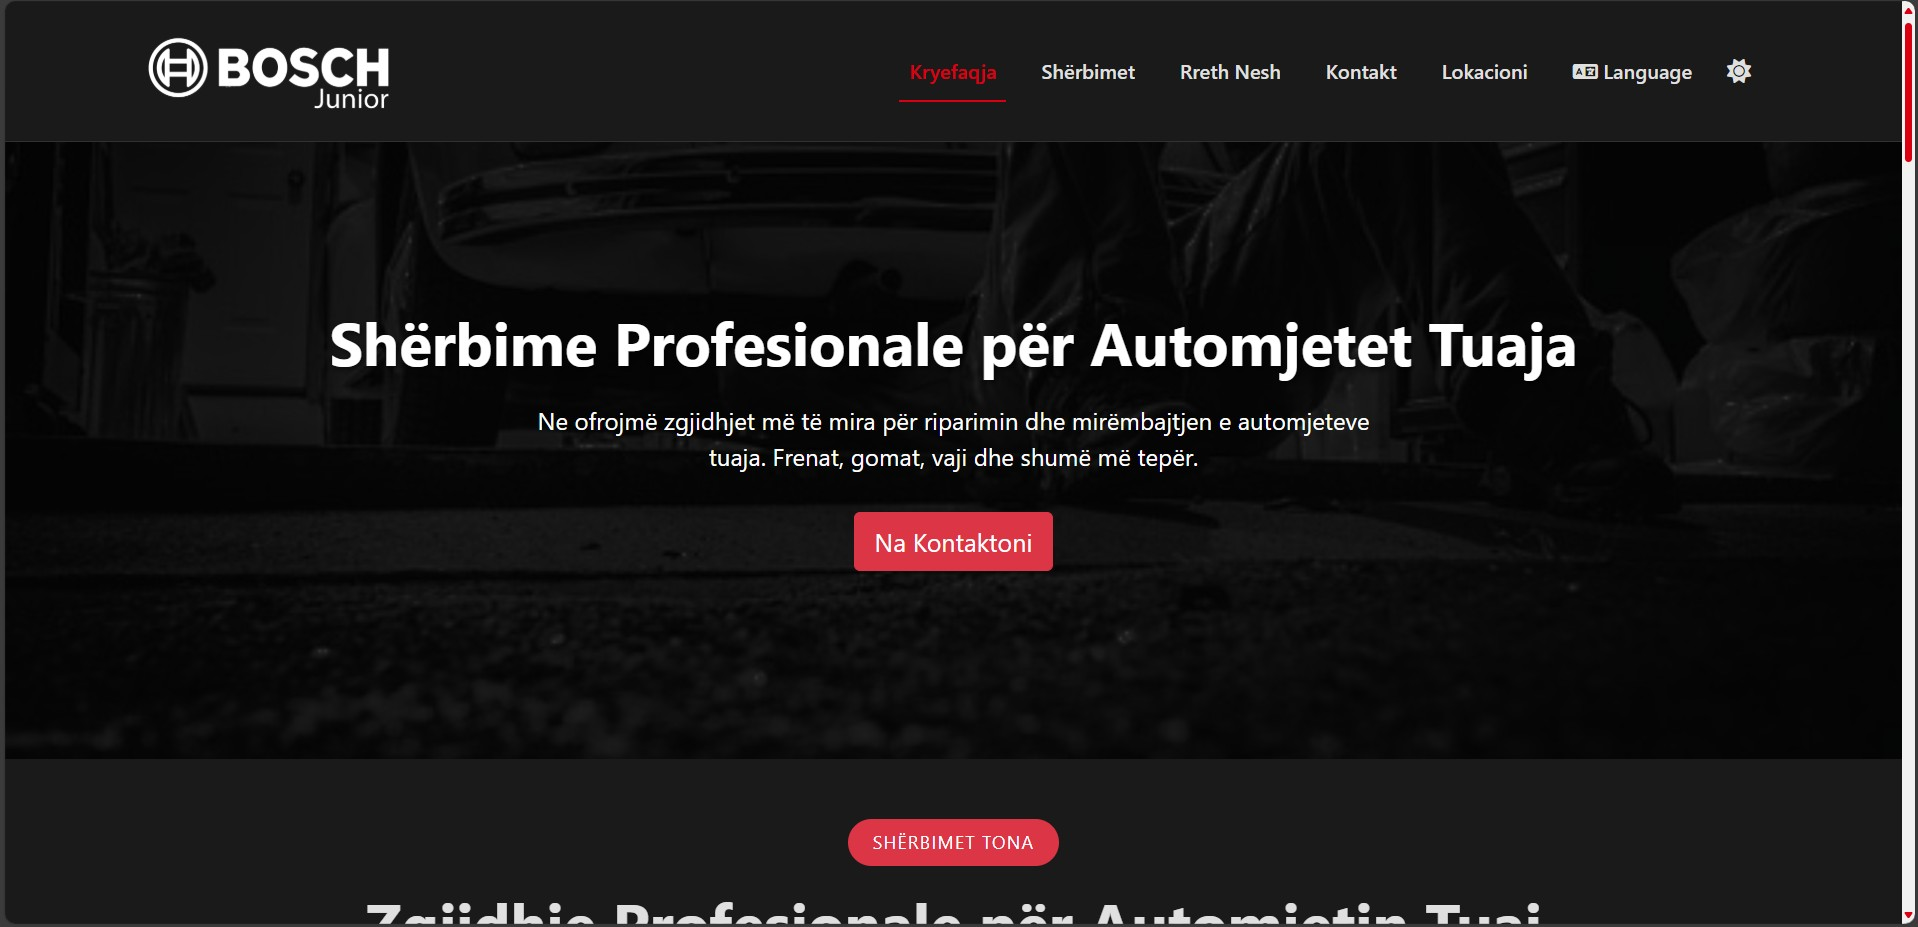
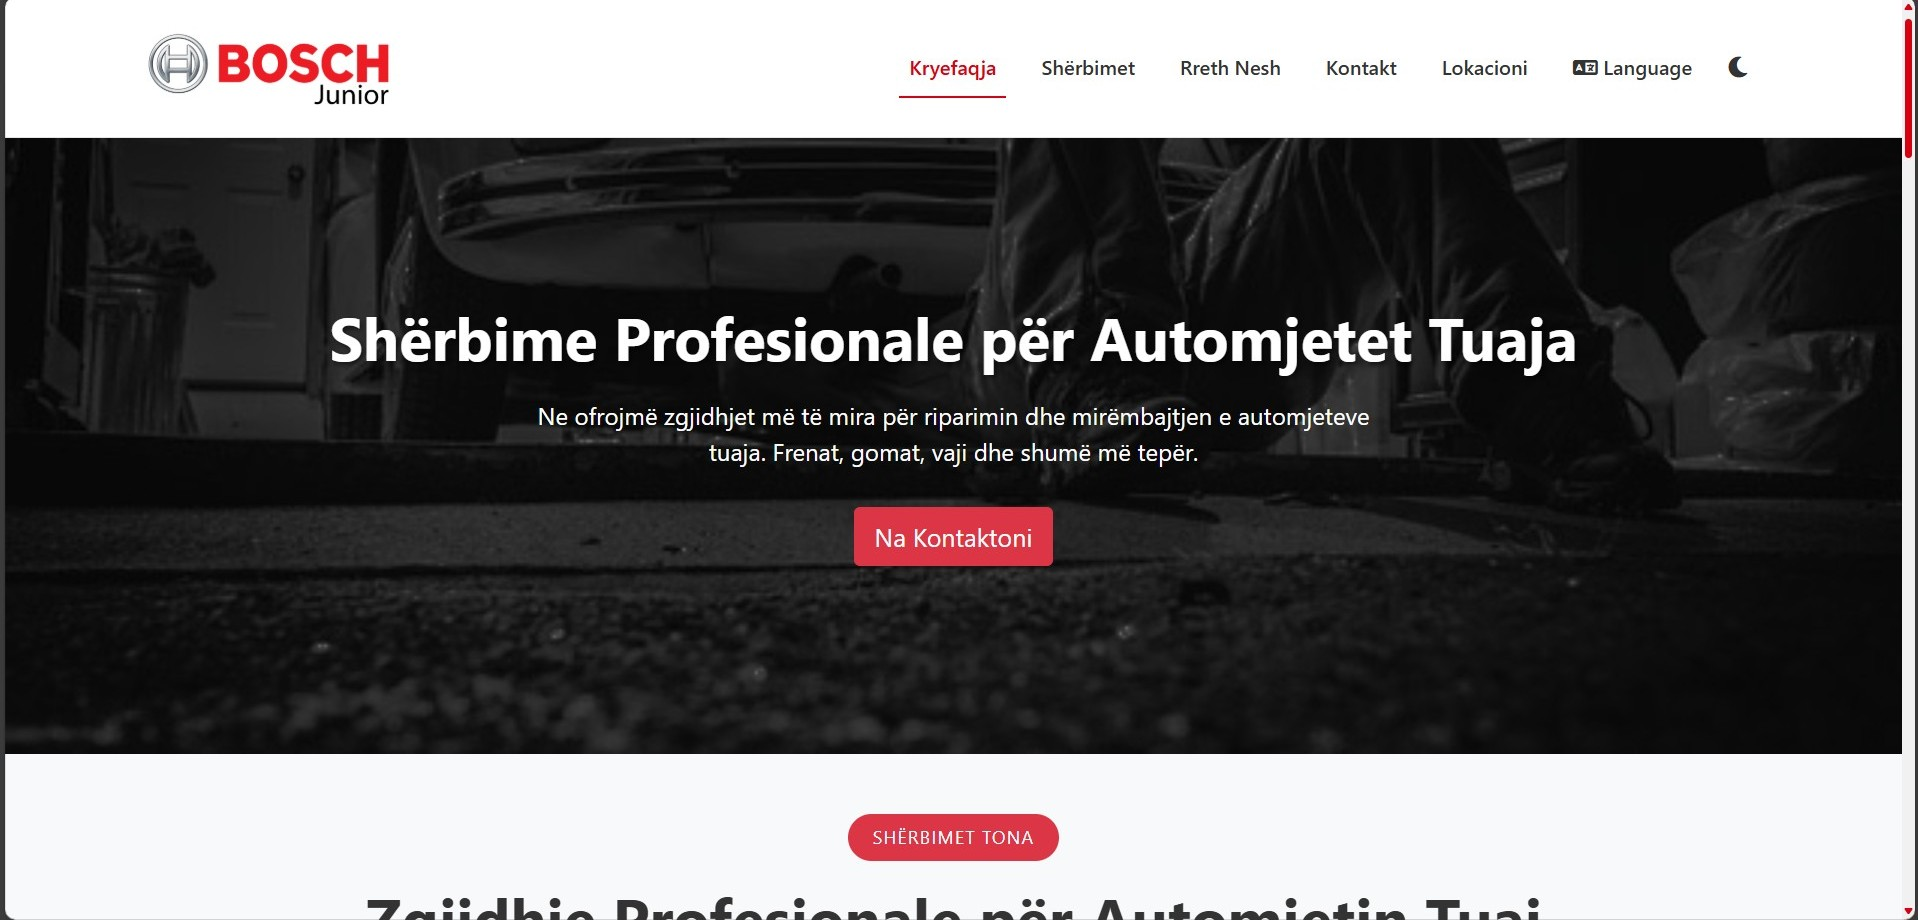
updated dark/light mode on project images

diff --git a/js/main.js b/js/main.js
@@ -139,31 +139,33 @@ function initializeTheme() {
 }
 
 function toggleTheme() {
-  const currentTheme = document.documentElement.getAttribute('data-theme');
-  const newTheme = currentTheme === 'dark' ? 'light' : 'dark';
+    const currentTheme = document.documentElement.getAttribute('data-theme');
+    const newTheme = currentTheme === 'dark' ? 'light' : 'dark';
 
-  document.documentElement.setAttribute('data-theme', newTheme);
-  localStorage.setItem('theme', newTheme);
+    document.documentElement.setAttribute('data-theme', newTheme);
+    localStorage.setItem('theme', newTheme);
 
-  const themeToggle = document.querySelector('.theme-toggle');
-  if (newTheme === 'dark') {
-    themeToggle.querySelector('.fa-moon').style.display = 'none';
-    themeToggle.querySelector('.fa-sun').style.display = 'block';
-  } else {
-    themeToggle.querySelector('.fa-moon').style.display = 'block';
-    themeToggle.querySelector('.fa-sun').style.display = 'none';
-  }
+    const themeToggle = document.querySelector('.theme-toggle');
+    if (newTheme === 'dark') {
+        themeToggle.querySelector('.fa-moon').style.display = 'none';
+        themeToggle.querySelector('.fa-sun').style.display = 'block';
+    } else {
+        themeToggle.querySelector('.fa-moon').style.display = 'block';
+        themeToggle.querySelector('.fa-sun').style.display = 'none';
+    }
 
-  // ❌ Kill existing particles instance
-  if (window.pJSDom && pJSDom.length) {
-    pJSDom[0].pJS.fn.vendors.destroypJS(); // Good practice
-    pJSDom = [];
-    document.querySelector('#particles-js').innerHTML = ''; // Clear canvas
-  }
+    // Update project images without reloading the entire projects
+    document.querySelectorAll('.project-image img').forEach(img => {
+        img.src = newTheme === 'dark' ? img.dataset.darkSrc : img.dataset.lightSrc;
+    });
 
-  // ✅ Re-initialize with new primary color
-  initParticles();
-  
+    // Handle particles
+    if (window.pJSDom && pJSDom.length) {
+        pJSDom[0].pJS.fn.vendors.destroypJS();
+        pJSDom = [];
+        document.querySelector('#particles-js').innerHTML = '';
+    }
+    initParticles();
 }
 
 function initParticles() {
@@ -317,12 +319,16 @@ function loadProjects() {
     const projectsGrid = document.querySelector('.projects-grid');
     if (!projectsGrid) return;
 
+        // Get current theme
+    const currentTheme = document.documentElement.getAttribute('data-theme') || 'light';
+    
     const projects = [
         {
             title: 'Bosch Junior Auto Service',
             description: 'Professional automotive service website showcasing our workshop, team, and services with gallery, service information, and contact functionality.',
             technologies: ['HTML5', 'CSS3', 'Bootstrap', 'JavaScript', 'Font Awesome'],
             image: 'assets/images/projects/bosch-showcase.jpg',
+            darkImage: 'assets/images/projects/bosch-showcase-dark.jpg', // Add dark mode image
             liveUrl: 'https://boschjunior.unaux.com/?i=1',
             codeUrl: 'https://github.com/betimidrizi/BoschJunior'
         },
@@ -368,13 +374,16 @@ function loadProjects() {
         }
     ];
 
-    projectsGrid.innerHTML = '';
+projectsGrid.innerHTML = '';
     projects.forEach(project => {
         const projectCard = document.createElement('div');
         projectCard.className = 'project-card';
         projectCard.innerHTML = `
             <div class="project-image">
-                <img src="${project.image}" alt="${project.title}">
+                <img src="${currentTheme === 'dark' && project.darkImage ? project.darkImage : project.image}" 
+                     alt="${project.title}"
+                     data-light-src="${project.image}"
+                     data-dark-src="${project.darkImage || project.image}">
             </div>
             <div class="project-content">
                 <h3 class="project-title">${project.title}</h3>
